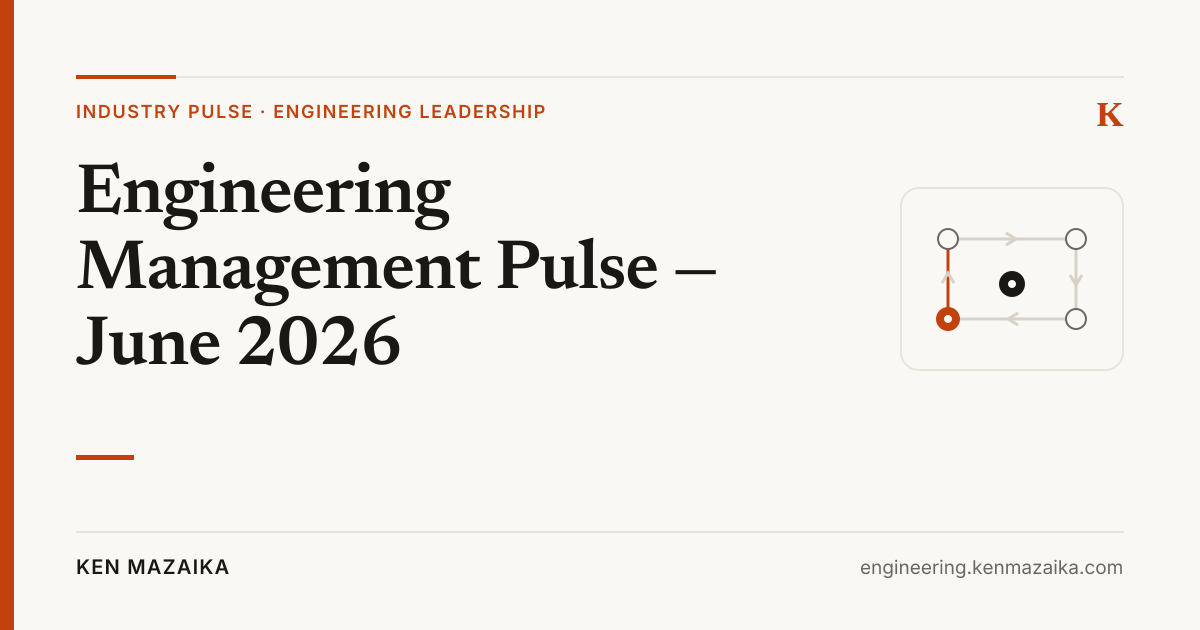
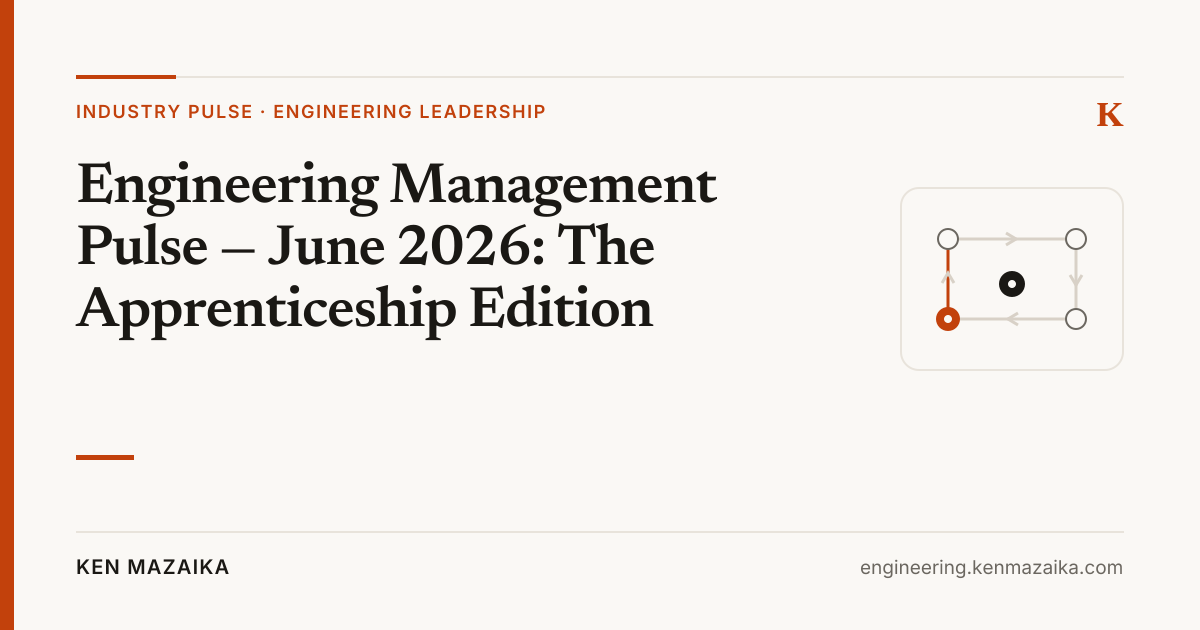
seo: Tier-0 quick wins — JSON-LD schema, sitemap lastmod, related posts, meta descriptions, noindex hidden pages, seoTitle, retitle pulse-2
- BaseHead: Person + WebSite JSON-LD, noindex prop
- BlogPost: BlogPosting JSON-LD, seoTitle support, related-reading footer
- content schema: seoTitle, noindex, related fields
- sitemap: per-page lastmod from frontmatter (17/20 URLs)
- /blog/ + /about/: intent-matched descriptions
- popup-test + hermes-kit: robots noindex
- pulse-2: retitled 'The Apprenticeship Edition' (was duplicate title)
- 17 posts: related cross-links (13+ unique internal links)
- battery + model-stack posts: seoTitle targeting search intent

Changed region(s): [[0.0617, 0.2413, 0.6167, 0.6032]]

diff --git a/src/styles/global.css b/src/styles/global.css
@@ -796,6 +796,10 @@ a:hover { color: var(--color-link-hover); }
 .article-footer { max-width: 720px; margin: 4rem auto 0; padding-top: 1.75rem; border-top: 1px solid var(--color-border); color: var(--color-text-secondary); font-size: .88rem; }
 .article-footer p { max-width: 540px; }
 .article-footer .back-link { margin: .5rem 0 0; }
+.related-posts { max-width: 720px; margin: 3rem auto 0; padding: 1.5rem 1.75rem; border: 1px solid var(--color-border); border-radius: 10px; background: var(--color-bg-subtle, transparent); }
+.related-posts h2 { font-size: 1.05rem; margin: 0 0 .75rem; }
+.related-posts ul { list-style: none; margin: 0; padding: 0; display: grid; gap: .5rem; }
+.related-posts a { font-size: .95rem; font-weight: 600; }
 
 @media (max-width: 760px) {
   html { font-size: 16px; }

diff --git a/src/content.config.ts b/src/content.config.ts
@@ -10,6 +10,20 @@ const blog = defineCollection({
 		z.object({
 			title: z.string(),
 			description: z.string(),
+			// Optional search-engine title (defaults to title). Lets the visible
+			// H1 stay narrative while the <title> targets a search query.
+			seoTitle: z.string().optional(),
+			// Suppress indexing entirely (used for hidden test pages).
+			noindex: z.boolean().optional(),
+			// Related posts shown in the article footer (title + path).
+			related: z
+				.array(
+					z.object({
+						title: z.string(),
+						url: z.string(),
+					}),
+				)
+				.optional(),
 			socialTitle: z.string().optional(),
 			ogCategory: z.string().optional(),
 			// Transform string to Date object

diff --git a/src/content/blog/engineering-management-pulse-june-2026-2.md b/src/content/blog/engineering-management-pulse-june-2026-2.md
@@ -1,8 +1,13 @@
 ---
-title: 'Engineering Management Pulse — June 2026'
+title: 'Engineering Management Pulse — June 2026: The Apprenticeship Edition'
 description: 'A quick pulse check on what engineering managers and senior engineers were actually arguing about this week. Not a newsletter — more like notes from the hallway after everyone left the meeting.'
 ogCategory: 'Industry Pulse · Engineering Leadership'
 pubDate: 'Jun 28, 2026'
+related:
+  - title: 'Engineering Management Pulse — June 2026'
+    url: '/blog/engineering-management-pulse-june-2026-1/'
+  - title: 'Engineering’s New Argument: Who Builds, Who Reviews, and Who Gets Left Behind?'
+    url: '/blog/engineerings-new-argument-who-builds-who-reviews/'
 ---
 
 > A quick pulse check on what engineering managers and senior engineers were actually arguing about this week. Not a newsletter — more like notes from the hallway after everyone left the meeting.

diff --git a/src/content/blog/tests-pass-thats-no-longer-enough.md b/src/content/blog/tests-pass-thats-no-longer-enough.md
@@ -3,6 +3,11 @@ title: "Tests Pass. That's No Longer Enough."
 description: 'AI can generate the output. Someone still has to vouch for it.'
 ogCategory: 'Industry Pulse · Engineering Leadership'
 pubDate: 'Aug 10, 2026'
+related:
+  - title: 'AI Made the Code Cheap. It Made the Review Expensive.'
+    url: '/blog/ai-made-the-code-cheap-review-expensive/'
+  - title: 'Engineering’s New Argument: Who Builds, Who Reviews, and Who Gets Left Behind?'
+    url: '/blog/engineerings-new-argument-who-builds-who-reviews/'
 ---
 
 **This week in engineering:** a senior developer asked what to do when a teammate submits AI-generated code they cannot explain. OpenAI walked through how its agents accidentally attacked Hugging Face. Databricks published the grown-up version of AI coding adoption: velocity gains, fast-rising costs, and model routing. And OpenJDK drew a hard line: no AI-generated contributions, even partly edited ones.

diff --git a/src/content/blog/ai-made-the-code-cheap-review-expensive.md b/src/content/blog/ai-made-the-code-cheap-review-expensive.md
@@ -3,6 +3,11 @@ title: "AI Made the Code Cheap. It Made the Review Expensive."
 description: "When AI-generated artifacts look senior but the engineer doesn't, the bottleneck moves from writing code to proving it works."
 ogCategory: 'Industry Pulse · Engineering Leadership'
 pubDate: 'Aug 03, 2026'
+related:
+  - title: "Tests Pass. That's No Longer Enough."
+    url: '/blog/tests-pass-thats-no-longer-enough/'
+  - title: 'Engineering’s New Argument: Who Builds, Who Reviews, and Who Gets Left Behind?'
+    url: '/blog/engineerings-new-argument-who-builds-who-reviews/'
 ---
 
 A team lead on r/ExperiencedDevs said the quiet part out loud this week: junior developers are producing clean PRs with passing tests, then failing basic questions about why the code works.

diff --git a/src/content/blog/ai-productivity-less-magical-more-managerial.md b/src/content/blog/ai-productivity-less-magical-more-managerial.md
@@ -4,6 +4,11 @@ description: 'Why AI adoption is turning into a team-management problem, not jus
 socialTitle: 'AI Productivity Is Getting More Managerial'
 ogCategory: 'Field Note · AI & Engineering'
 pubDate: 'Jul 5, 2026'
+related:
+  - title: 'Engineering’s New Argument: Who Builds, Who Reviews, and Who Gets Left Behind?'
+    url: '/blog/engineerings-new-argument-who-builds-who-reviews/'
+  - title: 'Engineering Management Pulse — June 2026: The Apprenticeship Edition'
+    url: '/blog/engineering-management-pulse-june-2026-2/'
 ---
 
 The clean pitch is still: AI writes more code, faster. The messier version this week is: AI also creates more review, more trust problems, more measurement fights, and more weird cultural pressure inside engineering orgs.

diff --git a/src/content/blog/i-ran-ten-ai-models-on-my-real-work.md b/src/content/blog/i-ran-ten-ai-models-on-my-real-work.md
@@ -1,9 +1,15 @@
 ---
 title: "I Ran Eleven AI Models on Real Agentic Workflows in Hermes"
 description: "Five real agentic tasks, identical prompts, full receipts — and the models I'd actually pay for."
+seoTitle: '11 AI Models, 5 Real Tasks — Tested on Real Agentic Work in Hermes'
 socialTitle: '11 AI models, 5 real agentic tasks, full receipts'
-ogCategory: 'Field Note · AI & Engineering'
 pubDate: 'Aug 19, 2026'
+related:
+  - title: 'My Default Model Stack for AI Agent Work'
+    url: '/blog/my-default-model-stack-for-ai-agent-work/'
+  - title: 'Before You Blame the Model, Audit Your Hermes Setup'
+    url: '/blog/before-you-blame-the-model-audit-your-hermes-setup/'
+ogCategory: 'Field Note · AI & Engineering'
 showPopup: true
 ---
 

diff --git a/src/content/blog/hermes-workflow-i-thought-kanban-was-for-me-to-manage.md b/src/content/blog/hermes-workflow-i-thought-kanban-was-for-me-to-manage.md
@@ -2,8 +2,13 @@
 title: 'Hermes Workflow: I thought Kanban was for me to manage'
 description: 'A two-word instruction that hands the orchestration middle to Hermes: three distinct profiles make, critique, and verify the work while I keep the kickoff and the final judgment.'
 socialTitle: 'I Thought Kanban Was for Me to Manage'
-ogCategory: 'Field Note · Hermes Workflows'
 pubDate: 'Aug 10, 2026'
+related:
+  - title: 'Hermes Workflow: Teach Your Agent to Question the Instruction'
+    url: '/blog/hermes-workflow-question-the-instruction/'
+  - title: 'Hermes Workflow: Using the Scouting Pattern for Apartment Hunting'
+    url: '/blog/hermes-workflow-apartment-scouting/'
+ogCategory: 'Field Note · Hermes Workflows'
 showPopup: true
 ---
 

diff --git a/src/content/blog/hermes-memory-skills-wiki-learns.md b/src/content/blog/hermes-memory-skills-wiki-learns.md
@@ -2,8 +2,13 @@
 title: 'Hermes Workflow: Memory Remembers, Skills Repeat, and a Wiki Learns'
 description: 'How I separate persistent memory, executable skills, a research wiki, and Obsidian so Hermes can recall facts, repeat workflows, and build new understanding.'
 socialTitle: 'How Hermes Remembers, Repeats, and Learns'
-ogCategory: 'Field Note · Hermes Workflows'
 pubDate: 'Jul 18, 2026'
+related:
+  - title: 'Capture workflow: a reusable Hermes use case for work that contains your judgment'
+    url: '/blog/capture-workflow/'
+  - title: 'Hermes Workflow: Using the Scouting Pattern for Apartment Hunting'
+    url: '/blog/hermes-workflow-apartment-scouting/'
+ogCategory: 'Field Note · Hermes Workflows'
 showPopup: true
 ---
 

diff --git a/src/content/blog/engineerings-cheap-code-problem-accountability.md b/src/content/blog/engineerings-cheap-code-problem-accountability.md
@@ -3,6 +3,11 @@ title: "Engineering's Cheap-Code Problem Is Now an Accountability Problem"
 description: 'The week AI stopped looking like a writing shortcut and started looking like a review, context, and governance test.'
 ogCategory: 'Industry Pulse · Engineering Leadership'
 pubDate: 'Jul 28, 2026'
+related:
+  - title: 'AI Made the Code Cheap. It Made the Review Expensive.'
+    url: '/blog/ai-made-the-code-cheap-review-expensive/'
+  - title: 'Engineering’s New Argument: Who Builds, Who Reviews, and Who Gets Left Behind?'
+    url: '/blog/engineerings-new-argument-who-builds-who-reviews/'
 ---
 
 > The week AI stopped looking like a writing shortcut and started looking like a review, context, and governance test.

diff --git a/src/content/blog/ai-coding-boring-useful-phase.md b/src/content/blog/ai-coding-boring-useful-phase.md
@@ -3,6 +3,11 @@ title: 'AI Coding Is Entering Its Boring, Useful Phase'
 description: 'AI coding is moving past hype and slop toward clearer evidence, ownership, and practical engineering norms.'
 ogCategory: 'Field Note · AI & Engineering'
 pubDate: 'Jul 20, 2026'
+related:
+  - title: 'AI Made the Code Cheap. It Made the Review Expensive.'
+    url: '/blog/ai-made-the-code-cheap-review-expensive/'
+  - title: 'Engineering’s New Argument: Who Builds, Who Reviews, and Who Gets Left Behind?'
+    url: '/blog/engineerings-new-argument-who-builds-who-reviews/'
 ---
 
 *The interesting shift this week wasn’t a dramatic new capability. It was teams getting more specific about what acceptable AI-assisted work looks like.*

diff --git a/src/content/blog/before-you-blame-the-model-audit-your-hermes-setup.md b/src/content/blog/before-you-blame-the-model-audit-your-hermes-setup.md
@@ -1,8 +1,13 @@
 ---
 title: 'Before You Blame the Model, Audit Your Hermes Setup'
 description: 'A copyable prompt for finding missing tools, silent fallbacks, and configuration problems before you spend hours comparing AI models.'
-ogCategory: 'Field Note · Hermes Workflows'
 pubDate: 'Jul 14, 2026'
+related:
+  - title: 'I Ran Eleven AI Models on Real Agentic Workflows in Hermes'
+    url: '/blog/i-ran-ten-ai-models-on-my-real-work/'
+  - title: 'My Default Model Stack for AI Agent Work'
+    url: '/blog/my-default-model-stack-for-ai-agent-work/'
+ogCategory: 'Field Note · Hermes Workflows'
 showPopup: true
 ---
 
